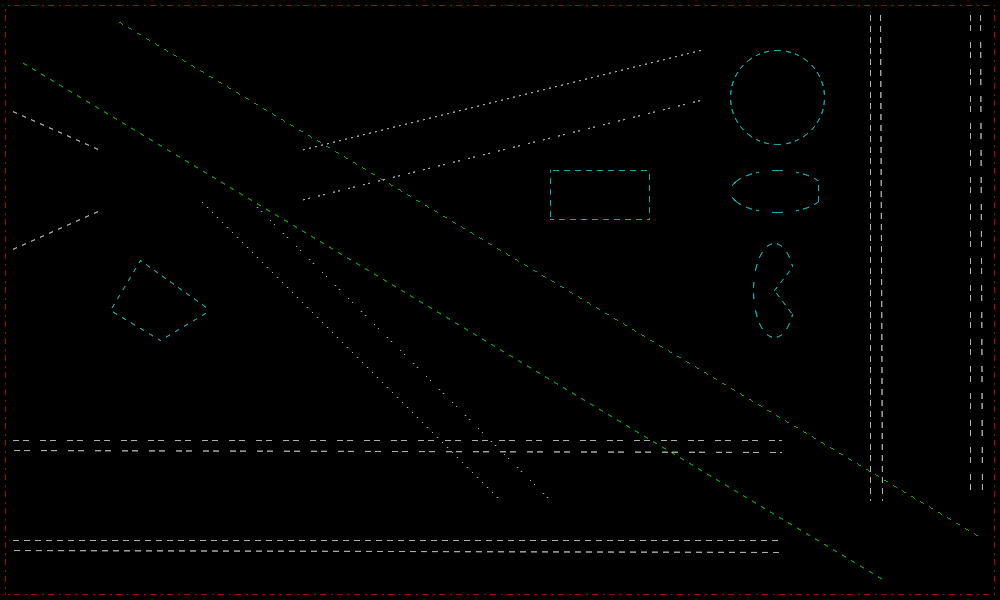
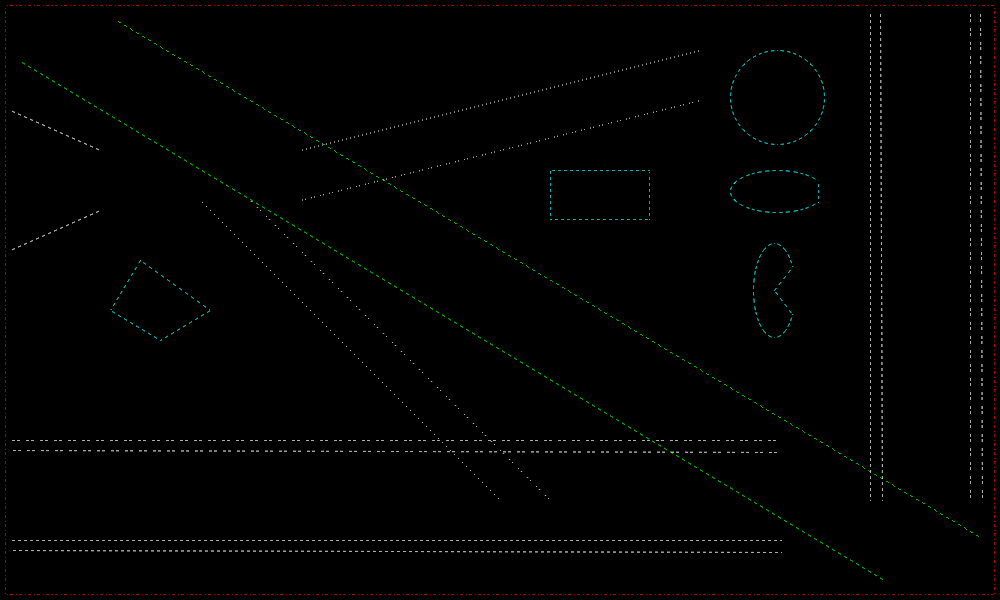
Fixing patterned line

diff --git a/src/Pt-Gfx/Rasterizer2.cpp b/src/Pt-Gfx/Rasterizer2.cpp
@@ -265,37 +265,69 @@ void Rasterizer2::updatePenPattern()
     }
 
     // Counter for generating the pattern
-    Pt::int32_t gctr = 0;
+    size_t gctr = 0;
 
     // Generate the pattern
     Pt::uint8_t previous = 0;
+    bool        tooBig   = false;
     for(Pt::int8_t i = 0; i < patternLen; ++i) {
         // Get the pattern cell value
         const Pt::uint8_t current = patternSel[i];
-        const Pt::uint8_t max     = 1;
+        const Pt::uint8_t max     = PATTERN_BUFFER_SCALE_FACTOR;
         // Pattern cell change from 0 to 0
         if(!previous && !current) {
-            for(Pt::uint8_t i = 0; i <= max; ++i) _patternBuffer[gctr++] = 0;
+            for(Pt::uint8_t i = 1; i <= max; ++i) {
+                if(gctr >= sizeof(_patternBuffer)) {
+                    tooBig = true;
+                    break;
+                }
+                _patternBuffer[gctr++] = 0;
+            }
         }
         // Pattern cell change from 1 to 1
         else if(previous && current) {
-            for(Pt::uint8_t i = 0; i <= max; ++i) _patternBuffer[gctr++] = 255;
+            for(Pt::uint8_t i = 1; i <= max; ++i) {
+                if(gctr >= sizeof(_patternBuffer)) {
+                    tooBig = true;
+                    break;
+                }
+                _patternBuffer[gctr++] = 255;
+            }
         }
         // Pattern cell change from 0 to 1
         else if(!previous && current) {
-            for(Pt::int32_t i = 0; i <= max; ++i) _patternBuffer[gctr++] = i * 255 / max;
+            for(Pt::int32_t i = 1; i <= max; ++i) {
+                if(gctr >= sizeof(_patternBuffer)) {
+                    tooBig = true;
+                    break;
+                }
+                _patternBuffer[gctr++] = i * 255 / max;
+            }
         }
         // Pattern cell change from 1 to 0
         else if(previous && !current) {
-            for(Pt::int32_t i = 0; i <= max; ++i) _patternBuffer[gctr++] = 255 - i * 255 / max;
+            for(Pt::int32_t i = 1; i <= max; ++i) {
+                if(gctr >= sizeof(_patternBuffer)) {
+                    tooBig = true;
+                    break;
+                }
+                _patternBuffer[gctr++] = 255 - i * 255 / max;
+            }
         }
         // Copy the pattern cell value
         previous = current;
     }
 
+    // Check if the size of the generated pattern is too big to be stored in the pattern buffer
+    if(tooBig) {
+        _patternBuffer[0] = 0;
+        _fpatternMaxCtr   = FIXED_POINT_FROM_INT(1);
+        return;
+    }
+
     // Without anti-aliasing
     if(_aaMode == AntiAliasingMode::None) {
-        for(Pt::int32_t i = 0; i < gctr; ++i) {
+        for(size_t i = 0; i < gctr; ++i) {
             if(_patternBuffer[i] > 127) _patternBuffer[i] = 255;
             else                        _patternBuffer[i] = 0;
         }
@@ -303,7 +335,7 @@ void Rasterizer2::updatePenPattern()
 
     // With anti-aliasing
     else {
-        for(Pt::int32_t i = 0; i < gctr; ++i) {
+        for(size_t i = 0; i < gctr; ++i) {
             _patternBuffer[i] = XWAA_WFILTER[ 255 - _patternBuffer[i] ];
         }
     }

diff --git a/src/Pt-Gfx/Rasterizer2.h b/src/Pt-Gfx/Rasterizer2.h
@@ -65,6 +65,9 @@
 #define MAXIMUM_COORD Painter::MaximumCoordinate
 #define MAXIMUM_POINT Painter::MaximumPointCoordinate
 
+// Scale for the pattern buffer
+#define PATTERN_BUFFER_SCALE_FACTOR 8
+
 // Just for easy and faster debugging ;)
 #include <stdio.h>
 #define lprintf(...) fprintf (stderr, __VA_ARGS__)
@@ -289,7 +292,7 @@ class Rasterizer2
 // ======================================================================================
 
 Pt::uint8_t Rasterizer2::patternBufferAlpha(Pt::int32_t idx)
-{ return _patternBuffer[idx % FIXED_POINT_TO_INT(_fpatternMaxCtr)]; }
+{ return _patternBuffer[ idx % FIXED_POINT_TO_INT(_fpatternMaxCtr) ]; }
 
 Pt::uint8_t Rasterizer2::patternBufferAlphaPolar(Pt::int32_t x, Pt::int32_t y, float scale)
 { return patternBufferAlpha(Gfx::Math::convertCartesianToPolarCoordinate(x, y) * scale); }
@@ -306,8 +309,8 @@ Pt::uint8_t Rasterizer2::patternBufferAlphaPolar(Pt::int32_t x, Pt::int32_t y, f
 
 void Rasterizer2::patternBufferAlpha(Pt::uint8_t& a0, Pt::uint8_t& a1, Pt::int32_t idx, Pt::uint8_t alpha0, Pt::uint8_t alpha1)
 {
-    a0 = (Pt::uint32_t) _patternBuffer[idx % FIXED_POINT_TO_INT(_fpatternMaxCtr)] * alpha0 / 255;
-    a1 = (Pt::uint32_t) _patternBuffer[idx % FIXED_POINT_TO_INT(_fpatternMaxCtr)] * alpha1 / 255;
+    a0 = (Pt::uint32_t) _patternBuffer[ idx % FIXED_POINT_TO_INT(_fpatternMaxCtr) ] * alpha0 / 255;
+    a1 = (Pt::uint32_t) _patternBuffer[ idx % FIXED_POINT_TO_INT(_fpatternMaxCtr) ] * alpha1 / 255;
 }
 
 void Rasterizer2::patternBufferAlphaPolar(Pt::uint8_t& a0, Pt::uint8_t& a1, Pt::int32_t x, Pt::int32_t y, float scale, Pt::uint8_t alpha0, Pt::uint8_t alpha1)

diff --git a/src/Pt-Gfx/Rasterizer2_PatternedLine.cpp b/src/Pt-Gfx/Rasterizer2_PatternedLine.cpp
@@ -43,9 +43,11 @@ void Rasterizer2::rasterOnePixelPatternedLine(Pt::int32_t x1, Pt::int32_t y1, Pt
     // Check the size of the line
     const Pt::int32_t sizeX = abs(x2 - x1) + 1;
     const Pt::int32_t sizeY = abs(y2 - y1) + 1;
+    const Pt::int32_t sizeL = Gfx::Math::fastSqrt(sizeX * sizeX + sizeY * sizeY);
 
     // Calculate the incremental factor of the pattern indexing counter
-    const Pt::int32_t fpiCtrInc = FIXED_POINT_FROM_INT(sizeX + sizeY) / Gfx::Math::fastSqrt(sizeX * sizeX + sizeY * sizeY);
+    const Pt::int32_t fpiCtrInc = FIXED_POINT_FROM_INT(PATTERN_BUFFER_SCALE_FACTOR * sizeL)
+                                / Gfx::Math::fastSqrt(sizeX * sizeX + sizeY * sizeY);
 
     // Check for 45-degree line
     if(abs(x2 - x1) == abs(y2 - y1)) {

diff --git a/src/Pt-Gfx/ImagePainter2_Ellipse.cpp b/src/Pt-Gfx/ImagePainter2_Ellipse.cpp
@@ -209,7 +209,7 @@ void ImagePainter2::drawOnePixelEllipseArcImpl(const PointF& topLeft, const Size
     const bool solid = (_rasterizer->pen().style() == Pen::Solid);
 
     // Calculate the scaling factor for retrieving alphas from the pattern buffer
-    const float pbScale = solid ? 1.0f : std::max(radX, radY) / 55.0f;
+    const float pbScale = solid ? 1.0f : std::max(radX, radY) / (float) PATTERN_BUFFER_SCALE_FACTOR;
 
     // Determine we need to scale the indexes to the pattern buffer
     const bool scaleWP = (radX != radY);

diff --git a/src/Pt-Gfx/tests/ImagePainterTest2.cpp b/src/Pt-Gfx/tests/ImagePainterTest2.cpp
@@ -53,7 +53,7 @@ using namespace Pt::Gfx;
 
 // Detailed-test enable settings for Pt-Gfx
 #define TEST_SOURCECOPY                         1
-#define TEST_SOURCEOVER                         0
+#define TEST_SOURCEOVER                         1
 
 #define TEST_DRAW_SOLID_LINE_AND_TEXT           0
 #define TEST_DRAW_PATTERNED_LINE                1
